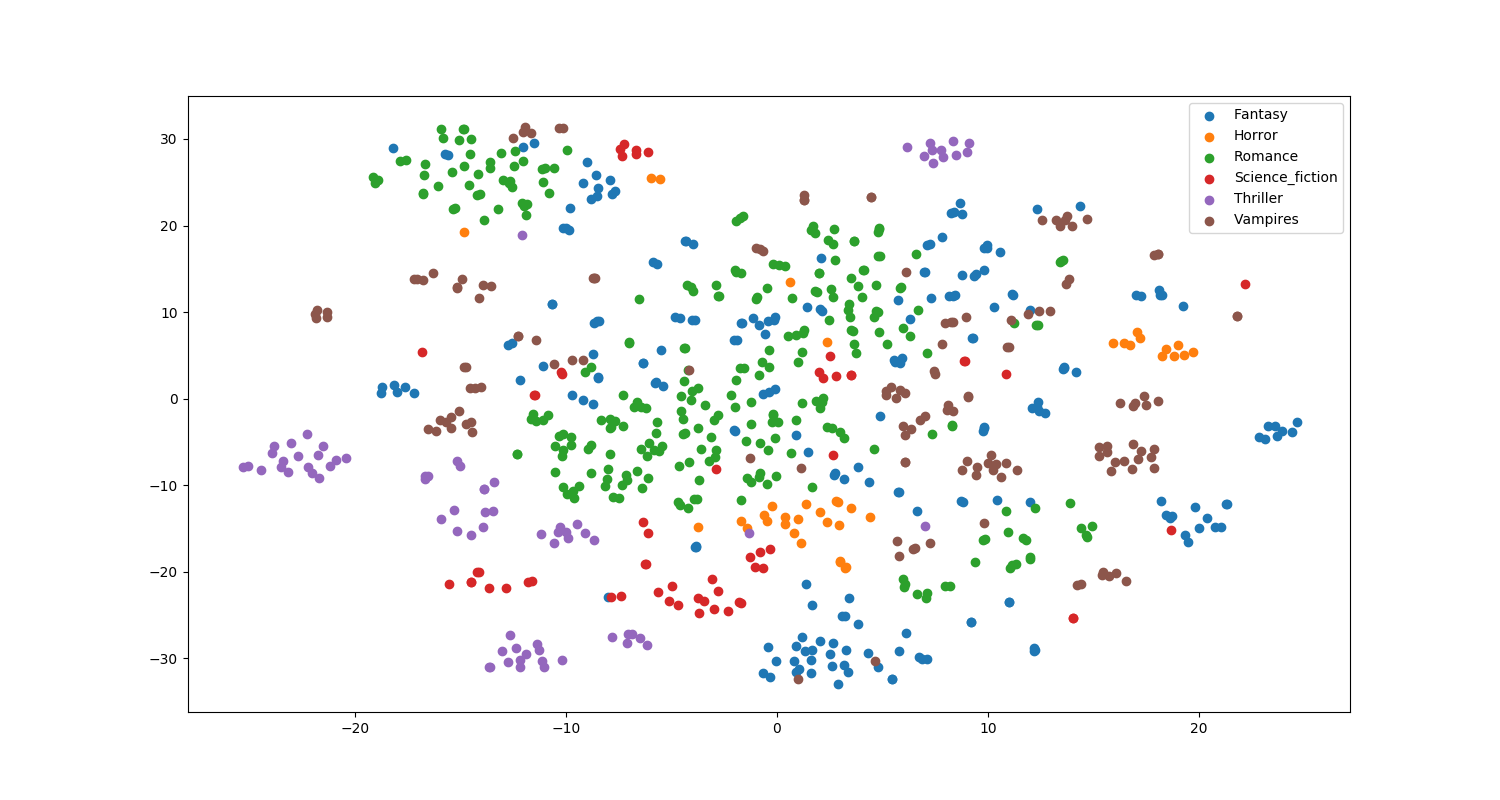
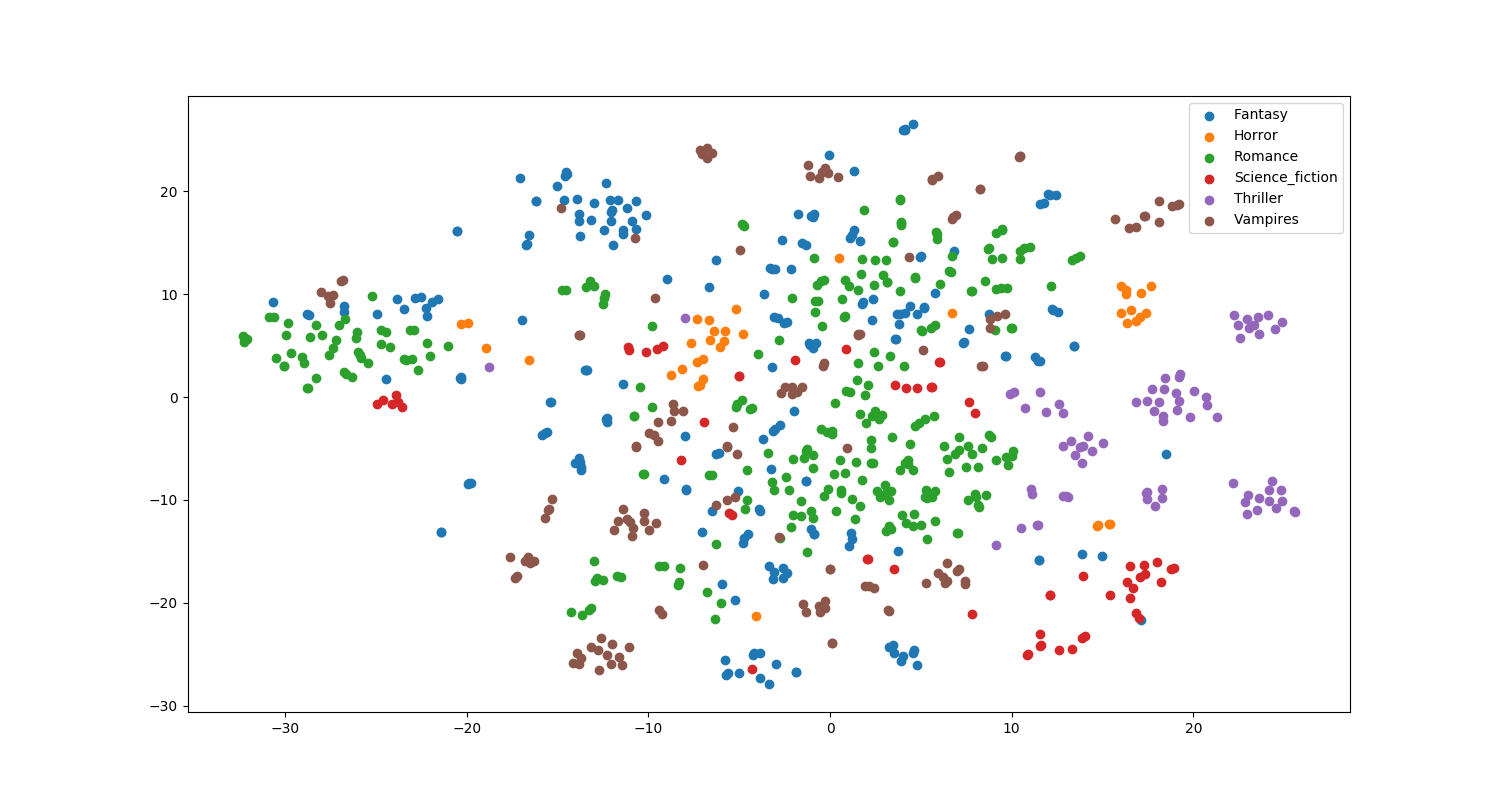
b2p2v predictions

diff --git a/scripts/B2P2VModel.py b/scripts/B2P2VModel.py
@@ -43,8 +43,9 @@ class B2P2VModel:
 
     if mode == tf.estimator.ModeKeys.PREDICT:
         predictions = {
-            "book" : file_name,
-            "state": state_encoder
+            'book': file_name,
+            'state': state_encoder,
+            'outputs': outputs
         }
         return tf.estimator.EstimatorSpec(mode, loss=total_loss, predictions=predictions)
 
@@ -124,7 +125,7 @@ if __name__ == '__main__':
 
     classifier = tf.estimator.Estimator(
         model_fn=b2p2vmodel.model_fn,
-        model_dir="../models/b2p2v",
+        model_dir='../models/b2p2v',
         config=estimator_config,
         params={})
 
@@ -138,12 +139,16 @@ if __name__ == '__main__':
         predictions = classifier.predict(input_fn=b2p2vmodel.input_fn)
         book_filenames = []
         book_vecs = []
+        predicted_vecs = []
         for p in predictions:
-            book_filenames.append(p['book'].decode("utf-8"))
+            book_filenames.append(p['book'].decode('utf-8'))
             book_vecs.append(p['state'])
+            predicted_vecs.append(p['outputs'])
 
         book_vecs = [x for _,x in sorted(zip(book_filenames,book_vecs))]
+        predicted_vecs = [x for _, x in sorted(zip(book_filenames, predicted_vecs))]
         book_filenames = sorted(book_filenames)
 
         np.save('../models/b2p2v_book_filenames.npy', book_filenames)
         np.save('../models/b2p2v_book_vecs.npy', book_vecs)
+        np.save('../models/b2p2v_predicted_vecs.npy', predicted_vecs)

diff --git a/scripts/b2p2v_predictions.py b/scripts/b2p2v_predictions.py
@@ -1,0 +1,28 @@
+import numpy as np
+import glob
+from gensim.models.doc2vec import Doc2Vec
+from scipy import spatial
+
+
+
+vec_names = np.load('../models/vec_names_20k.npy').tolist()
+book_filenames = sorted(glob.glob('../data/BookCorpus/*/*txt'))
+model = Doc2Vec.load('../models/par2vec_300_20k.doc2vec')
+par_vecs = model.docvecs.vectors_docs
+
+tree = spatial.KDTree(par_vecs)
+
+
+cleaned_vecs = np.load('../models/book_par_vecs_20k.npy')
+predicted_vecs = np.load('../models/b2p2v_predicted_vecs.npy')
+
+p = 1
+
+distances, closest = tree.query(predicted_vecs[100][10], k= 10)
+a = np.atleast_2d(par_vecs)
+print("%d, %d" % (np.min(a), np.max(a)))
+i = 0
+for c in closest:
+    print(vec_names[c])
+    print(distances[i])
+    i += 1

diff --git a/scripts/book2vec_scatter.py b/scripts/book2vec_scatter.py
@@ -25,7 +25,7 @@ vec_size = 300
 if not load:
     model = Doc2Vec.load('../models/book2vec_'+str(vec_size)+'.doc2vec')
     #tsne_model_2D = TSNE(n_components=2, random_state=0, verbose=1, init="pca", n_iter=10000, perplexity=50)
-    tsne_model_2D = TSNE(n_components=2, n_iter=10000, perplexity=100)
+    tsne_model_2D = TSNE(n_components=2, n_iter=10000, perplexity=100, init='pca')
     tsne_articles_2D = tsne_model_2D.fit_transform(model.docvecs.vectors_docs)
     np.save('../models/tsne2D_'+str(vec_size)+'.npy', tsne_articles_2D)
 

diff --git a/scripts/b2p2v_scatter.py b/scripts/b2p2v_scatter.py
@@ -19,7 +19,7 @@ for book_filename in book_filenames:
 
 vec_size = 300
 
-tsne_model_2D = TSNE(n_components=2, n_iter=10000, perplexity=100)
+tsne_model_2D = TSNE(n_components=2, n_iter=10000, perplexity=100, init='pca')
 tsne_articles_2D = tsne_model_2D.fit_transform(book_vecs)
 
 # 2D
@@ -31,4 +31,5 @@ for g in range(len(genre_names)):
 
 plt.legend()
 
-plt.savefig('../figures/cluster_2D_b2v2p_3_'+str(vec_size)+'.png')
+
+plt.savefig('../figures/cluster_2D_b2v2p_'+str(vec_size)+'.png')

diff --git a/scripts/par2vec_scatter.py b/scripts/par2vec_scatter.py
@@ -26,7 +26,7 @@ load = False
 
 if not load:
     model = Doc2Vec.load('../models/par2vec_'+str(vec_size)+'_'+str(int(par_length/1000))+'k.doc2vec')
-    tsne_model_2D = TSNE(n_components=2, n_iter=10000, perplexity=100)
+    tsne_model_2D = TSNE(n_components=2, n_iter=10000, perplexity=100, init='pca')
     tsne_articles_2D = tsne_model_2D.fit_transform(model.docvecs.vectors_docs)
     np.save('../models/tsne2D_'+str(vec_size)+'_par.npy', tsne_articles_2D)
 else:

diff --git a/scripts/par2vec_normalize.py b/scripts/par2vec_normalize.py
@@ -39,9 +39,9 @@ tree = spatial.KDTree(norm_vecs)
 
 #b = '../data/BookCorpus/Thriller/James_Bond-1'
 #b = '../data/BookCorpus/Thriller/Da_Vinci_Code'
-#b = '../data/BookCorpus/Romance/Attachments'
-#b = '../data/BookCorpus/Fantasy/Mistborn-1'
-b = '../data/BookCorpus/Science_fiction/Asimov47'
+b = '../data/BookCorpus/Romance/Attachments'
+#b = '../data/BookCorpus/Fantasy/Wheel_of_Time-12'
+#b = '../data/BookCorpus/Science_fiction/Asimov47'
 
 
 p = 1

diff --git a/scripts/b2p2v_sample.py b/scripts/b2p2v_sample.py
@@ -6,7 +6,7 @@ book_filenames1 = sorted(glob.glob('../data/BookCorpus/*/*txt'))
 
 model = Doc2Vec.load('../models/book2vec_300.doc2vec')
 
-book_vecs = np.load('../models/b2p2v_book_vecs_c.npy')
+book_vecs = np.load('../models/b2p2v_book_vecs.npy')
 book_filenames2 = np.load('../models/b2p2v_book_filenames.npy')
 
 print(book_filenames1[0])

diff --git a/scripts/book2vec.py b/scripts/book2vec.py
@@ -29,7 +29,7 @@ print('Total number of words: ' + str(words))
 
 cores = multiprocessing.cpu_count()
 
-vec_size = 10
+vec_size = 300
 
 model = Doc2Vec(size = vec_size, min_count = 5, workers=cores, alpha = 0.025, min_alpha=0.025, iter=10)
 #model = Doc2Vec(size = 300, min_count = 5, workers=cores, iter = 10)
